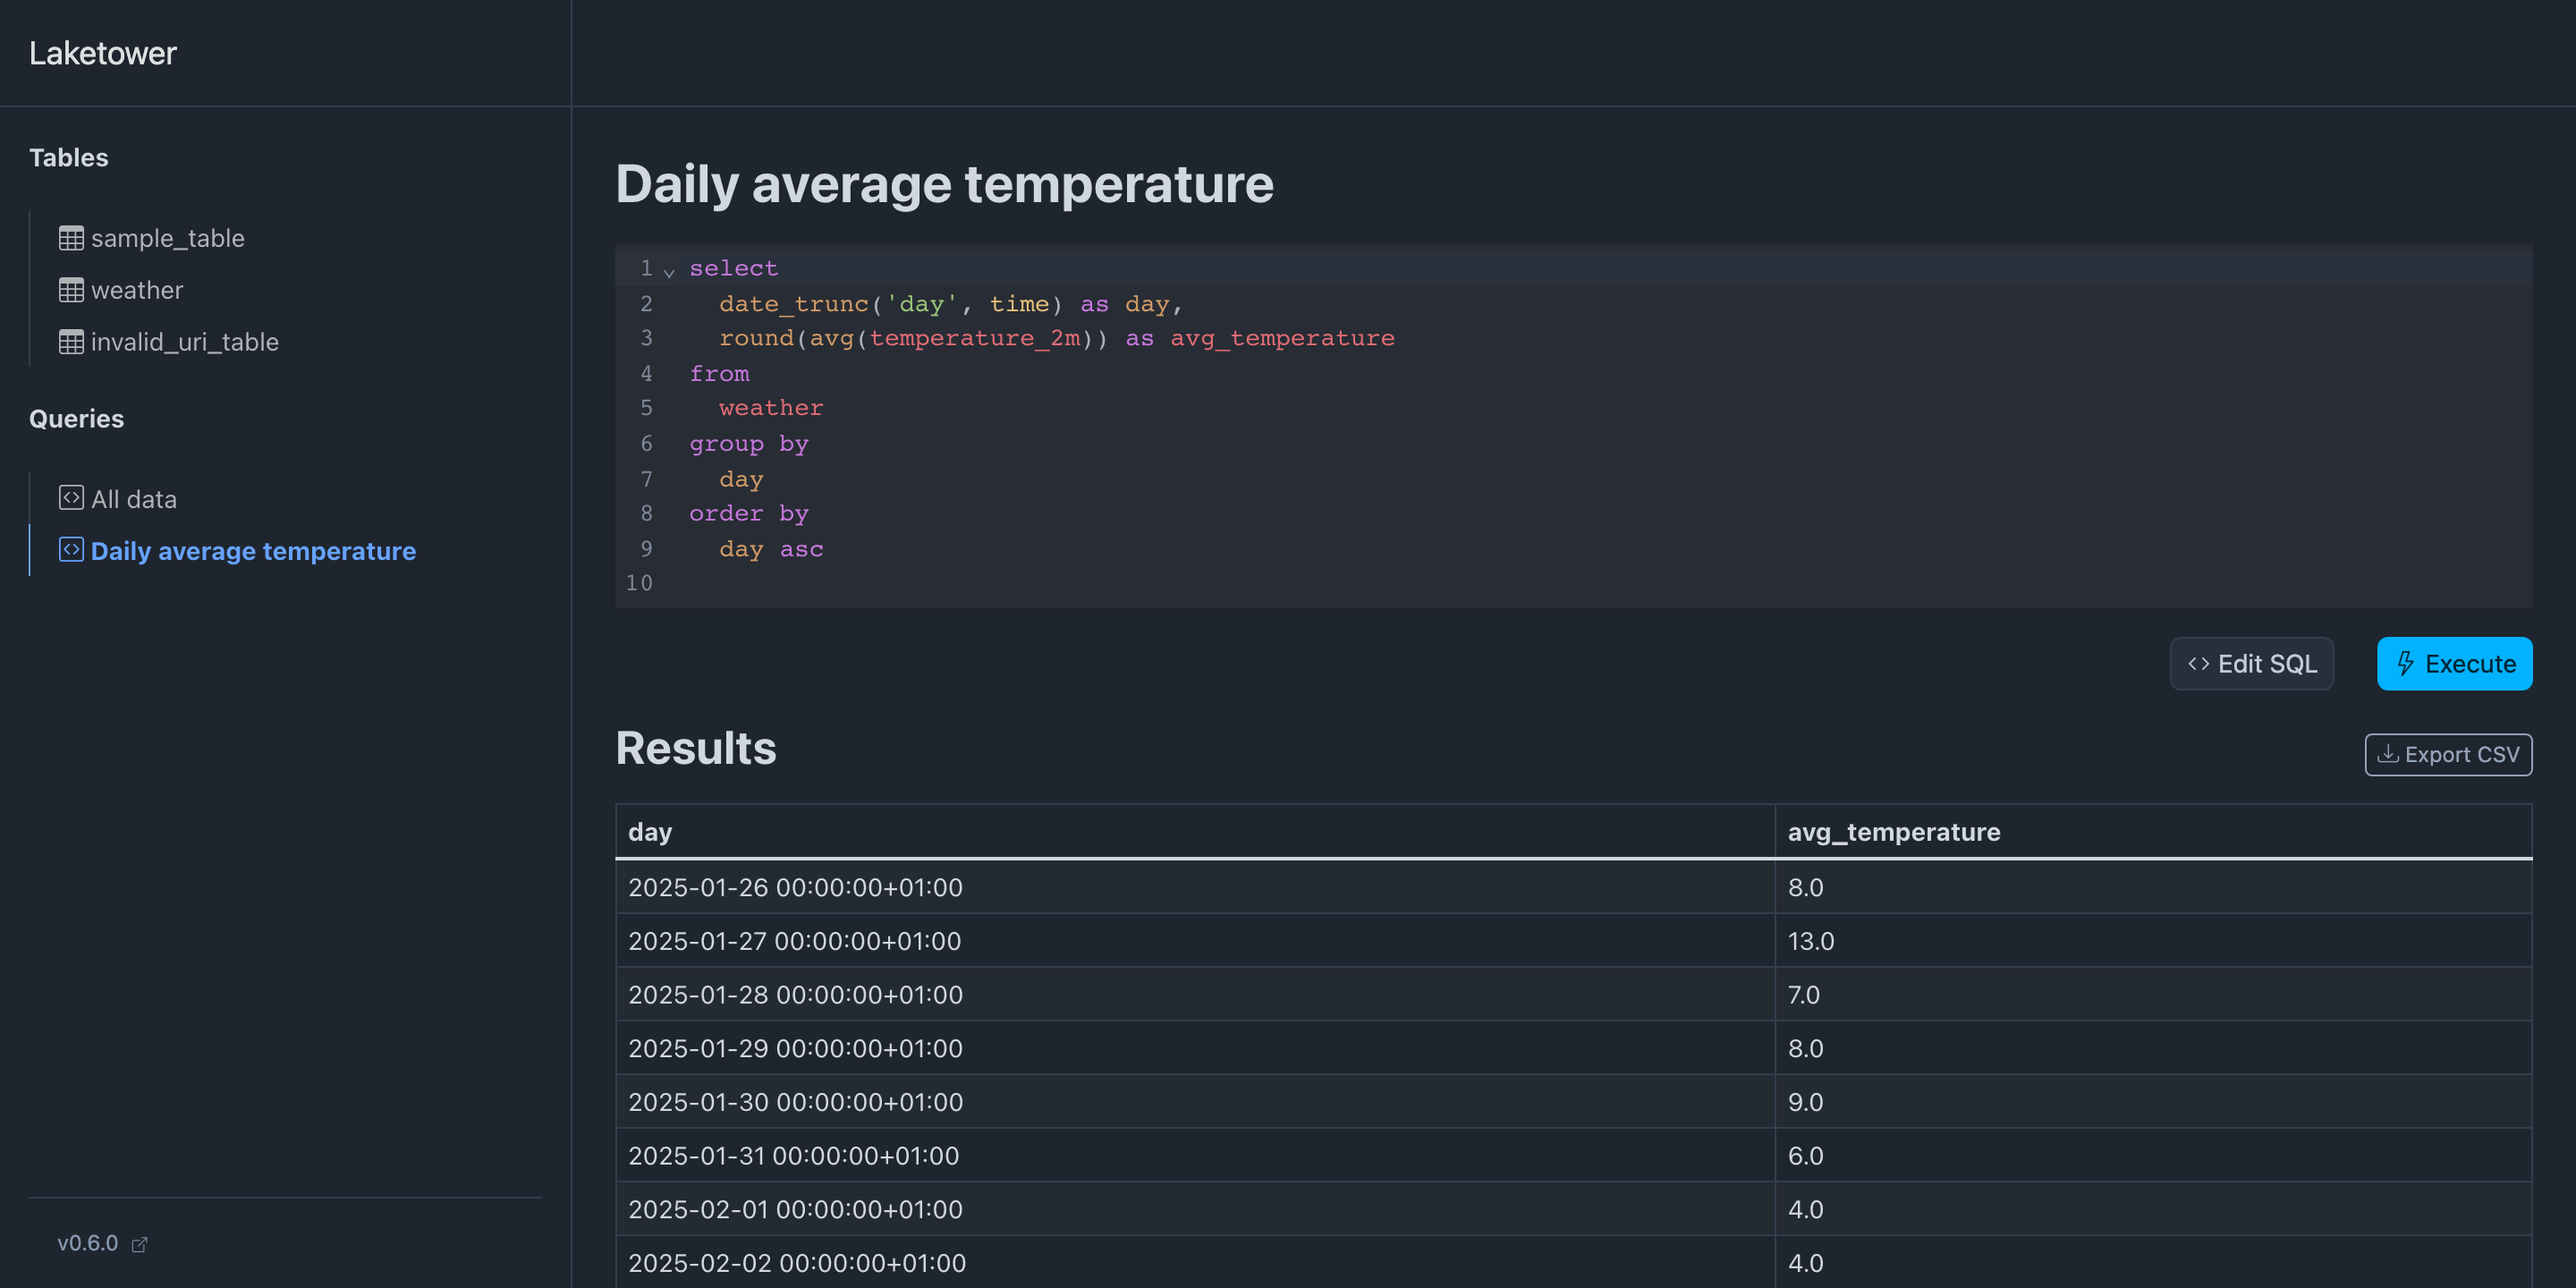
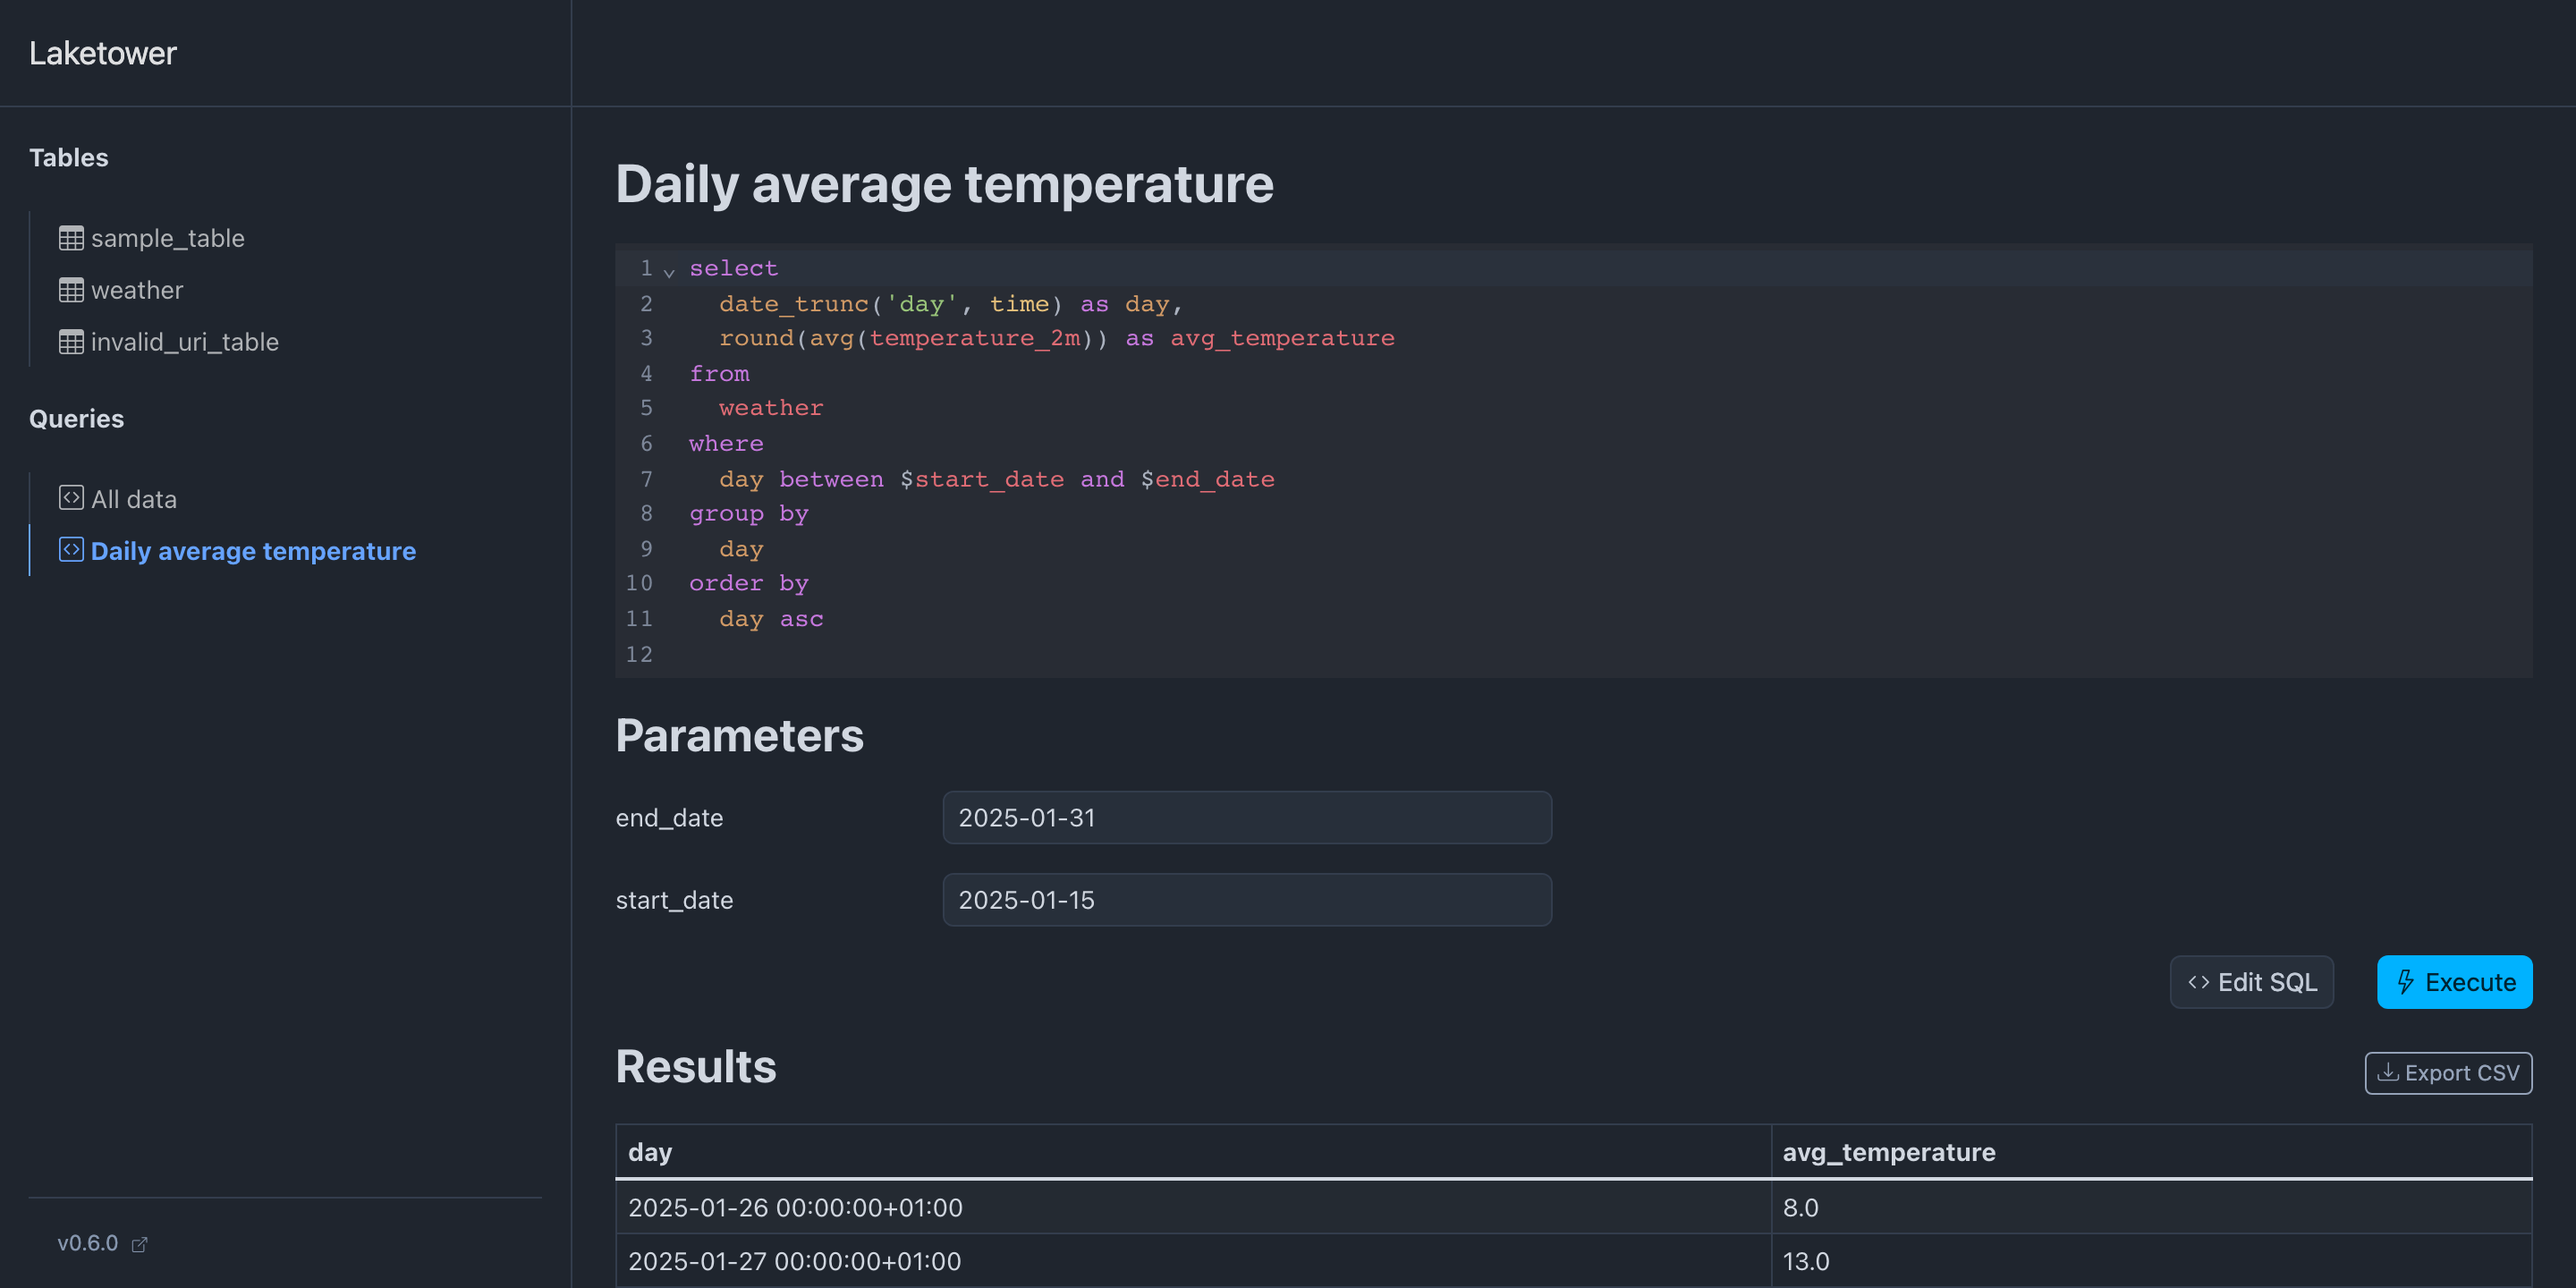
feat(web): add support for predefined queries parameters

diff --git a/laketower/templates/queries/view.html b/laketower/templates/queries/view.html
@@ -10,11 +10,23 @@
         <textarea disabled id="sql-editor" name="sql" rows="5" class="form-control">{{ query.sql }}</textarea>
       </div>
 
+      {% if sql_params|length %}
+      <h3 class="mb-3">Parameters</h3>
+      {% for param_name, param_value in sql_params.items() %}
+      <div class="row mb-3">
+        <label for="param-{{ param_name }}" class="col-form-label col-sm-2">{{ param_name }}</label>
+        <div class="col-sm-4">
+          <input id="param-{{ param_name }}" class="form-control" name="{{ param_name }}" value="{{ param_value }}">
+        </div>
+      </div>
+      {% endfor %}
+      {% endif %}
+
       <div class="mb-3">
         <div class="d-flex justify-content-end">
           <div class="row">
             <div class="col">
-              <a href="/tables/query?sql={{ query.sql | urlencode }}" class="btn btn-secondary" type="button">
+              <a href="/tables/query?sql={{ query.sql | urlencode }}{% if request.query_params | length > 0 %}&{{ request.query_params.multi_items() | urlencode}}{% endif %}" class="btn btn-secondary" type="button">
                 <i class="bi-code" aria-hidden="true"></i> Edit SQL
               </a>
             </div>

diff --git a/laketower/web.py b/laketower/web.py
@@ -5,7 +5,7 @@ from typing import Annotated
 
 import pydantic_settings
 from fastapi import APIRouter, FastAPI, File, Form, Query, Request, UploadFile
-from fastapi.responses import HTMLResponse, Response
+from fastapi.responses import HTMLResponse, RedirectResponse, Response
 from fastapi.staticfiles import StaticFiles
 from fastapi.templating import Jinja2Templates
 
@@ -343,16 +343,37 @@ def post_table_import(
 
 
 @router.get("/queries/{query_id}/view", response_class=HTMLResponse)
-def get_query_view(request: Request, query_id: str) -> HTMLResponse:
+def get_query_view(request: Request, query_id: str) -> Response:
     app_metadata: AppMetadata = request.app.state.app_metadata
     config: Config = request.app.state.config
     query_config = next(
         filter(lambda query_config: query_config.name == query_id, config.queries)
     )
+
+    if (
+        len(request.query_params.keys()) == 0
+        and len(query_config.parameters.keys()) > 0
+    ):
+        default_parameters = {k: v.default for k, v in query_config.parameters.items()}
+        url = request.url_for("get_query_view", query_id=query_id)
+        query_params = urllib.parse.urlencode(default_parameters)
+        return RedirectResponse(f"{url}?{query_params}")
+
     tables_dataset = load_datasets(config.tables)
+    sql_param_names = extract_query_parameter_names(query_config.sql)
+    sql_params = {
+        name: request.query_params.get(name)
+        or (
+            query_param.default
+            if (query_param := query_config.parameters.get(name))
+            else None
+        )
+        or ""
+        for name in sql_param_names
+    }
 
     try:
-        results = execute_query(tables_dataset, query_config.sql)
+        results = execute_query(tables_dataset, query_config.sql, sql_params=sql_params)
         error = None
     except ValueError as e:
         error = {"message": str(e)}
@@ -367,6 +388,7 @@ def get_query_view(request: Request, query_id: str) -> HTMLResponse:
             "queries": config.queries,
             "query": query_config,
             "query_results": results,
+            "sql_params": sql_params,
             "error": error,
         },
     )

diff --git a/tests/test_web.py b/tests/test_web.py
@@ -704,6 +704,53 @@ def test_queries_view(client: TestClient, sample_config: dict[str, Any]) -> None
     assert all(col in all_th for col in {"day", "avg_temperature"})
 
 
+def test_queries_view_parameters_default(
+    client: TestClient, sample_config: dict[str, Any]
+) -> None:
+    query = sample_config["queries"][1]
+
+    response = client.get(f"/queries/{query['name']}/view")
+    assert response.status_code == HTTPStatus.OK
+    assert response.history[0].has_redirect_location
+
+    html = response.content.decode()
+    soup = BeautifulSoup(html, "html.parser")
+
+    assert soup.find("h2", string=query["title"])
+    assert soup.find("h3", string="Parameters")
+
+    for param_name, param_data in query["parameters"].items():
+        assert soup.find("label", string=param_name)
+        assert soup.find(
+            "input", attrs={"name": param_name, "value": param_data["default"]}
+        )
+
+
+def test_queries_view_parameters(
+    client: TestClient, sample_config: dict[str, Any]
+) -> None:
+    query = sample_config["queries"][1]
+
+    response = client.get(
+        f"/queries/{query['name']}/view",
+        params={k: v["default"] for k, v in query["parameters"].items()},
+    )
+    assert response.status_code == HTTPStatus.OK
+    assert len(response.history) == 0
+
+    html = response.content.decode()
+    soup = BeautifulSoup(html, "html.parser")
+
+    assert soup.find("h2", string=query["title"])
+    assert soup.find("h3", string="Parameters")
+
+    for param_name, param_data in query["parameters"].items():
+        assert soup.find("label", string=param_name)
+        assert soup.find(
+            "input", attrs={"name": param_name, "value": param_data["default"]}
+        )
+
+
 def test_queries_view_invalid(
     monkeypatch: pytest.MonkeyPatch,
     sample_config: dict[str, Any],

diff --git a/tests/conftest.py b/tests/conftest.py
@@ -58,7 +58,16 @@ def sample_config(delta_table: deltalake.DeltaTable) -> dict[str, Any]:
                 "name": "daily_average_temperature",
                 "title": "Daily average temperature",
                 "sql": "select date_trunc('day', time) as day, round(avg(temperature)) as avg_temperature from delta_table group by day order by day asc",
-            }
+            },
+            {
+                "name": "daily_average_temperature_params",
+                "title": "Daily average temperature with parameters",
+                "parameters": {
+                    "start_date": {"default": "2025-01-01"},
+                    "end_date": {"default": "2025-01-31"},
+                },
+                "sql": "select date_trunc('day', time) as day, round(avg(temperature)) as avg_temperature from delta_table where day between $start_date and $end_date group by day order by day asc",
+            },
         ],
     }
 

diff --git a/laketower/config.py b/laketower/config.py
@@ -96,9 +96,14 @@ class ConfigTable(pydantic.BaseModel):
     connection: ConfigTableConnection | None = None
 
 
+class ConfigQueryParameter(pydantic.BaseModel):
+    default: str
+
+
 class ConfigQuery(pydantic.BaseModel):
     name: str
     title: str
+    parameters: dict[str, ConfigQueryParameter] = {}
     sql: str
 
 

diff --git a/CHANGELOG.md b/CHANGELOG.md
@@ -10,6 +10,7 @@ and this project adheres to [Semantic Versioning](https://semver.org/spec/v2.0.0
 - web: display app version in sidebar
 - web: use CodeMirror SQL query editor
 - web: add support for tables query parameters
+- web: add support for predefined queries parameters
 
 ### Fixed
 - handle empty SQL queries

diff --git a/README.md b/README.md
@@ -59,6 +59,9 @@ tables:
 queries:
   - name: <query_name>
     title: <Query name>
+    parameters:
+      <param_name_1>:
+        default: <default_value>
     sql: <sql expression>
 ```
 
